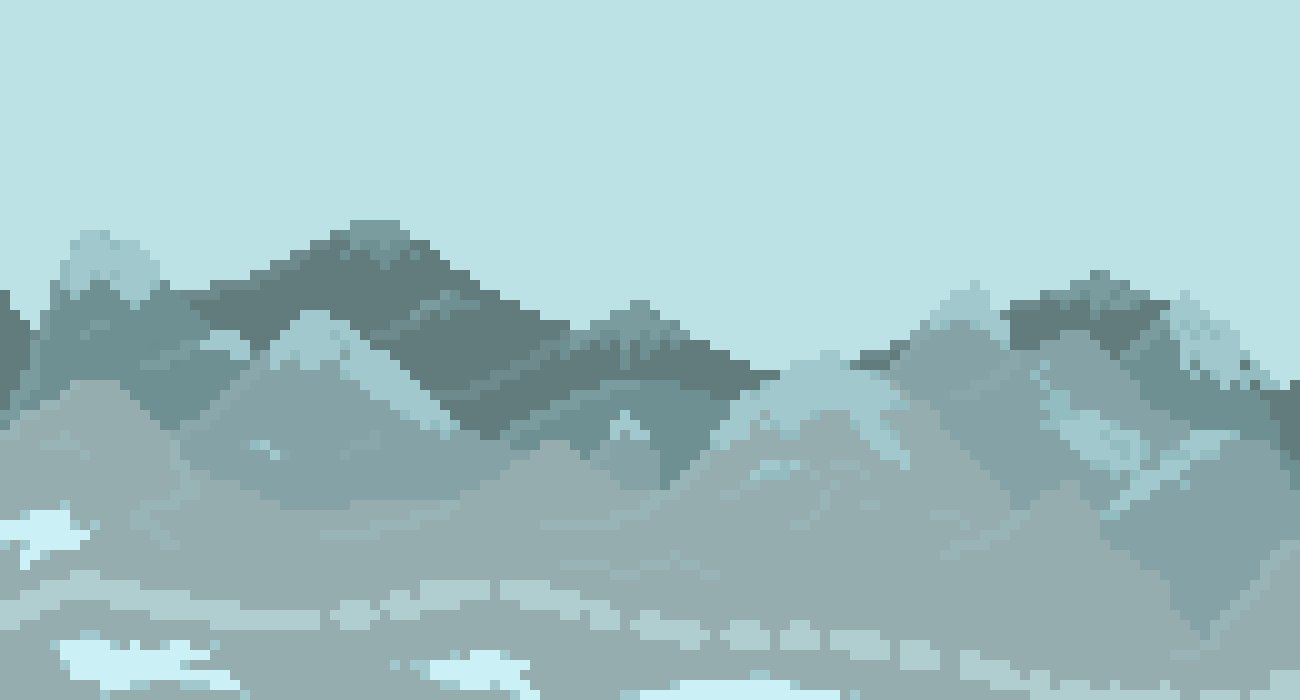
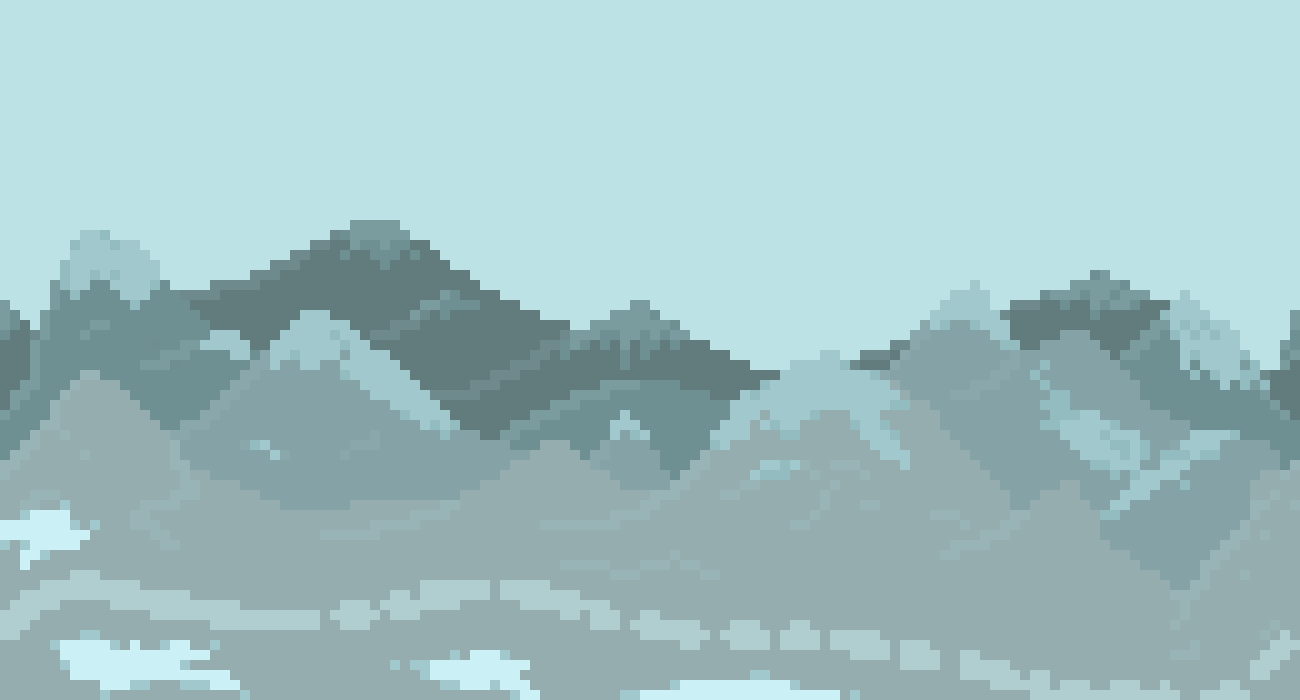
Started making a buggy screen scoll mechanic with some other changes made to allow me to improve this and the collision mechanic in the future.

diff --git a/main.js b/main.js
@@ -18,21 +18,24 @@ window.addEventListener('load', function () {
 
 	//CANVAS AND BACKGROUND DIMENSIONS
 
-	gamespace.width = 1280
+	gamespace.width = 5120
 	gamespace.height = 704
-	brick_bg.width = 1432
-	brick_bg.height = 768
+	brick_bg.width = 5240
+	brick_bg.height = 770
 
 	// GROUND DIMENSIONS AND DRAWING (function is looking through each row and mapping the tile texture to each corresponding integer)
 
 	const groundHeight = 512;
 	const ceilingHeight = -5;
 	const wallLeft = -8;
-	const wallRight = 1224;
+	const wallRight = 1224 + scrollWin;
+	var scrollLocation = 1224
 
-	const ground = [[0, 0, 0, 0, 3, 0, 0, 0, 0, 0, 0, 3, 3, 0, 0, 0, 0, 0, 0, 0],
-	[1, 1, 1, 1, 1, 1, 1, 1, 1, 1, 1, 1, 1, 1, 1, 1, 1, 1, 1, 1],
-	[2, 2, 2, 2, 2, 2, 2, 2, 2, 2, 2, 2, 2, 2, 2, 2, 2, 2, 2, 2]];
+	const ground = [
+	[0, 0, 0, 0, 0, 0, 0, 0, 0, 1, 1, 0, 0, 0, 0, 0, 0, 0, 0, 0, 0, 0, 0, 0, 0, 0, 0, 0, 0, 0, 0, 0, 0, 0, 0, 0],
+	[0, 0, 0, 0, 3, 0, 0, 0, 0, 2, 2, 1, 3, 0, 0, 0, 0, 0, 0, 0, 0, 0, 0, 0, 0, 0, 0, 0, 0, 0, 0, 0, 0, 0, 0, 1],
+	[1, 1, 1, 1, 1, 1, 1, 1, 1, 1, 1, 1, 1, 1, 1, 1, 1, 1, 1, 1, 1, 1, 1, 1, 1, 1, 1, 1, 1, 1, 1, 1, 1, 1, 1, 1,],
+	[2, 2, 2, 2, 2, 2, 2, 2, 2, 2, 2, 2, 2, 2, 2, 2, 2, 2, 2, 2, 2, 2, 2, 2, 2, 2, 2, 2, 2, 2, 2, 2, 2, 2, 2, 2]];
 
 	// needs cleaning up when I fill the whole gamespace with ground, decoration and semi-solid elements.
 
@@ -40,9 +43,9 @@ window.addEventListener('load', function () {
 		for (let row = 0; row < ground.length; row++) {
 			for (let col = 0; col < ground[row].length; col++) {
 				const tile = ground[row][col];
-				if (tile === 1) { context.drawImage(snowtileImage, col * 64, groundHeight + row * 64, 64, 64); }
-				if (tile === 2) { context.drawImage(dirttileImage, col * 64, groundHeight + row * 64, 64, 64); }
-				if (tile === 3) { context.drawImage(nullImage, col * 64, groundHeight + row * 64, 64, 64); }
+				if (tile === 1) { context.drawImage(snowtileImage, col * 64, groundHeight - 64 + row * 64, 64, 64); }
+				if (tile === 2) { context.drawImage(dirttileImage, col * 64, groundHeight - 64 + row * 64, 64, 64); }
+				if (tile === 3) { context.drawImage(nullImage, col * 64, groundHeight - 64 + row * 64, 64, 64); }
 			}
 		}
 	};
@@ -84,9 +87,9 @@ window.addEventListener('load', function () {
 
 	function drawHealth() {
 		for (let bar = 0; bar < healthBar.length; bar++)
-			if (healthBar[bar] === 1) { context.drawImage(heartfullImage, [bar] * 48 + 16, 16, 32, 32); }
-			else { if (healthBar[bar] === 0) { context.drawImage(heartemptyImage, [bar] * 48 + 16, 16, 32, 32); } }
-	};
+			if (healthBar[bar] === 1) { context.drawImage(heartfullImage, [bar] * 48 + scrollLocation - 1208, 16, 32, 32); }
+			else { if (healthBar[bar] === 0) { context.drawImage(heartemptyImage, [bar] * 48 + scrollLocation - 1208, 16, 32, 32); } }
+	}; // changing heart mechanics to fit the scroll
 
 	// KEY CONTROL EVENT LISTENERS
 
@@ -165,6 +168,18 @@ window.addEventListener('load', function () {
 		else if (Player.x > wallRight) { Player.x = wallRight }
 	};
 
+	// function boundingBox(Player) {
+	// 	if (Player.y > snowtileImage.y) { Player.y = snowtileImage.y + 512, Player.velocityY = 0 };}
+
+	// working on how to collide with the ground based on the tile below
+
+	function scrollWin() {
+  	if (Player.x > scrollLocation && pause != true) {window.scrollBy(1124, 0); scrollLocation += 1124}
+} // probably will change this to better and smoother scroll. it will also go both ways
+
+
+
+
 	// MUSIC PLAYING
 
 	MusicChilderness.play();
@@ -178,6 +193,7 @@ window.addEventListener('load', function () {
 
 		drawGround();
 		drawHealth();
+		scrollWin();
 
 		// DRAW OBJECTS (CHICKEN, PARACHUTE, PLAYER (INCLUDING DEAD SPRITE AND DEATH SCREEN), TITLE)
 
@@ -201,7 +217,7 @@ window.addEventListener('load', function () {
 		if (health > 0) { context.drawImage(playerImage, Player.x, Player.y, Player.width, Player.height); }
 		else {
 			dead = true; playerImage.src = 'assets/goat/deadgoat.png'; context.drawImage(playerImage, Player.x, Player.y, Player.width, Player.height); Player.speed = 0; Player.gravity = 0; Player.velocityY = 0;
-			if (deathTimer < 1) deathTimer += 0.001; const deathScreenGradient = context.createLinearGradient(0, 0, 0, gamespace.height); deathScreenGradient.addColorStop(0, 'rgba(255, 0, 0, 0'); deathScreenGradient.addColorStop(0.8, `rgba(255, 0, 0, ${0.1 * deathTimer}`); deathScreenGradient.addColorStop(1, `rgba(255, 0, 0, ${0.7 * deathTimer}`); context.fillStyle = deathScreenGradient; context.fillRect(0, 0, gamespace.width, gamespace.height); const deathScreen = document.getElementById('deathscreen'); deathScreen.textContent != "YOU DIED"; { MusicChilderness.muted = true }; MusicDead.play();
+			if (deathTimer < 1) deathTimer += 0.001; const deathScreenGradient = context.createLinearGradient(0, 0, 0, gamespace.height); deathScreenGradient.addColorStop(0, 'rgba(255, 0, 0, 0'); deathScreenGradient.addColorStop(0.8, `rgba(255, 0, 0, ${0.1 * deathTimer}`); deathScreenGradient.addColorStop(1, `rgba(255, 0, 0, ${0.7 * deathTimer}`); context.fillStyle = deathScreenGradient; context.fillRect(0, 0, gamespace.width, gamespace.height); const deathScreen = document.getElementById('deathscreen'); deathScreen.textContent = "YOU DIED"; { MusicChilderness.muted = true }; MusicDead.play();
 		};
 
 		// PAUSE MECHANICS
@@ -210,7 +226,9 @@ window.addEventListener('load', function () {
 
 		if (keys['p'] && !pausecheck) { pause = !pause };
 		pausecheck = keys['p'];
-		if (pause == true) { pauseScreen.textContent = "||" } else { pauseScreen.textContent = " " }
+		if (pause == true && health > 0) { pauseScreen.textContent = "||";}
+		else if (health > 0) {pauseScreen.textContent = " "}
+		else if (dead == true) { pauseScreen.textContent = "reloading..."; pauseScreen.textContent = " "; history.go(0);}
 
 		if (!pause) { GameUpdates(); };
 		function GameUpdates() {

diff --git a/style.css b/style.css
@@ -2,12 +2,13 @@
   margin: 0px;
   padding: 0;
   box-sizing: border-box;
+  scroll-behavior: smooth;
 }
 
 #brick_bg {
   position: absolute;
   image-rendering: pixelated;
-  transform: translate(-50%, -50%);
+  transform: translate(-18%, -50%);
   top: 50%;
   left: 50%;
   background-image: url('assets/backgrounds/bricks.png');
@@ -17,7 +18,7 @@
 #gamespace {
   position: absolute;
   image-rendering: pixelated;
-  transform: translate(-50%, -50%);
+  transform: translate(-13.5%, -50%);
   top: 50%;
   left: 50%;
   background-image: url('assets/backgrounds/background.png');
@@ -93,5 +94,5 @@
   font-size: 100px;
   color: rgb(0, 0, 0);
   font-family: 'Gill Sans', 'Gill Sans MT', Calibri, 'Trebuchet MS', sans-serif;
-  z-index: 3;
+  z-index: 4;
 }
